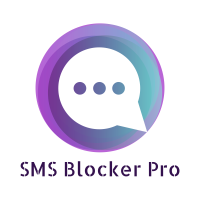
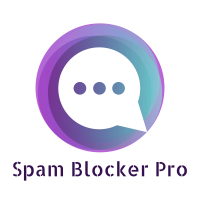
update

Changed region(s): [[0.06, 0.81, 0.96, 0.9]]

diff --git a/lib/screens/Home.dart b/lib/screens/Home.dart
@@ -218,7 +218,7 @@ class _HomeState extends State<HomeScreen> {
             new UserAccountsDrawerHeader(
                 currentAccountPicture:
                     Image.asset('assets/images/app_icon.png'),
-                accountName: new Text('SMS Blocker Pro'),
+                accountName: new Text('Spam Blocker Pro'),
                 accountEmail: null),
             new Column(children: drawerOptions)
           ],
